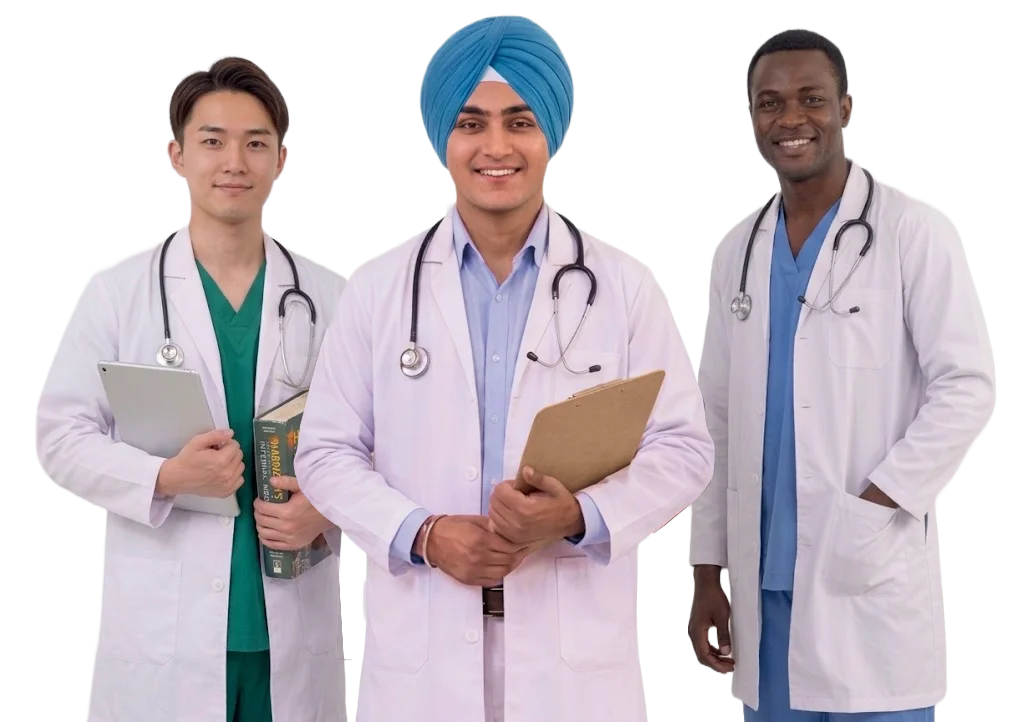
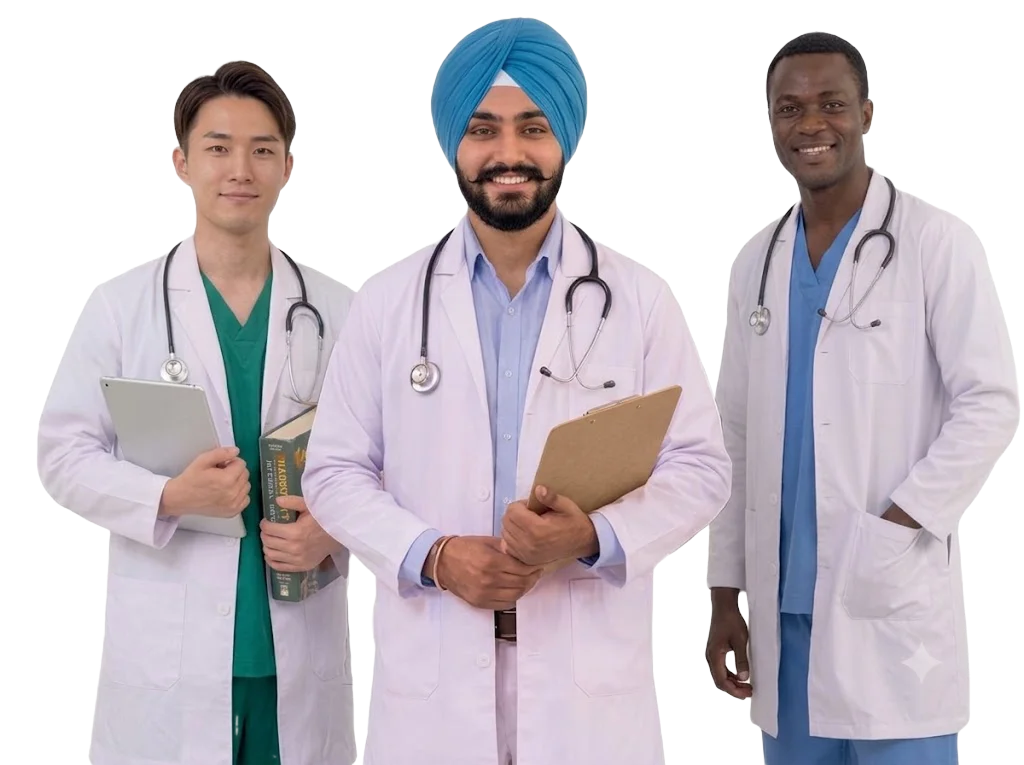
minor chnages

Changed region(s): [[0.0613, 0.0, 1.0, 1.0], [0.9496, 0.5789, 0.9802, 0.6399], [0.0306, 0.6094, 0.0613, 0.6704]]

diff --git a/src/app/_components/Home.tsx b/src/app/_components/Home.tsx
@@ -901,7 +901,7 @@ useEffect(() => {
           </div>
         </section>
         {/* subscription courses */}
-        <section className="bg-white py-[95px] lg:py-[110px]">
+        <section className="bg-white py-[25px] sm:py-[0]">
           <div className="mx-auto grid w-[var(--site-width)] max-w-[var(--container-max)] gap-8 lg:grid-cols-[280px_1fr] lg:gap-10">
             <aside className="flex flex-col">
               <p className="text-[12px] font-semibold uppercase text-[#7d56ff]">Our Courses</p>
